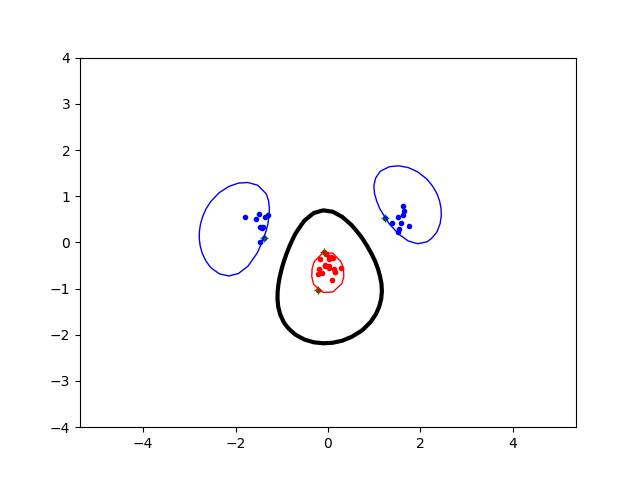
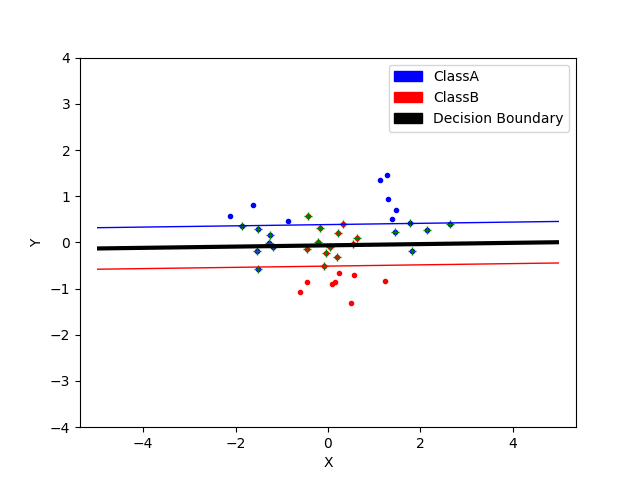
Update until q3

diff --git a/SVM/main.py b/SVM/main.py
@@ -1,8 +1,10 @@
+from pdb import line_prefix
 import numpy as np
 from scipy.optimize import minimize
 from matplotlib import pyplot as plt
 import random
 import math
+import matplotlib.patches as mpatches
 
 
 # Generate test data
@@ -11,9 +13,9 @@ import math
 #np.random.seed(100)    # to get the same random numbers
 
 classA = np.concatenate(
-    (np.random.randn(10, 2) * 0.2 + [1.5, 0.5],
-    np.random.randn(10, 2) * 0.2 + [-1.5, 0.5]))
-classB = np.random.randn(20, 2) * 0.2 + [0.0, -0.5]
+    (np.random.randn(10, 2) * 0.5 + [1.5, 0.5],
+    np.random.randn(10, 2) * 0.5 + [-1.5, 0.5]))
+classB = np.random.randn(20, 2) * 0.5 + [0.0, -0.5]
 
 inputs = np.concatenate((classA, classB))
 targets = np.concatenate((np.ones(classA.shape[0]), -np.ones(classB.shape[0])))
@@ -31,7 +33,7 @@ targets = targets[permute]
 def LinearKernel(x, y):
     return np.dot(x, y)
 
-def PolynomialKernel(x, y, p=3):    # max value for p = 10
+def PolynomialKernel(x, y, p=2):    # max value for p = 10
     '''Optional parameter p controls the degree of the polynomial'''
     return (1 + np.dot(x, y)) ** p
 
@@ -39,7 +41,7 @@ def RBFKernel(x, y, sigma=1.0):     # max value for sigma = 10
     '''Optional parameter sigma controls the width of the Gaussian'''
     return math.exp(-np.linalg.norm(x-y)**2 / (2 * (sigma ** 2)))
 
-Kernel = RBFKernel
+Kernel = LinearKernel
 
 
 # Generate P matrix
@@ -73,7 +75,7 @@ start = np.zeros(N)
 
 #B = [(0, None) for b in range(N)]  for having only lower bound
 
-C = 10000
+C = 10
 B = [(0, C) for b in range(N)]  # for having both lower and upper bounds
 
 '''Set the constraint, in this case the zerofun function. XC is given as a dictionary'''
@@ -124,5 +126,13 @@ ygrid = np.linspace(-4, 4)
 grid = np.array([[indicator(x, y) for x in xgrid] for y in ygrid])
 plt.contour(xgrid, ygrid, grid, (-1.0, 0.0, 1.0), colors=('red', 'black', 'blue'), linewidths=(1, 3, 1))
 
-plt.savefig('resources/svmplot.png')  # save a copy in a file
+blue_patch = mpatches.Patch(color='blue', label='ClassA')
+red_patch = mpatches.Patch(color='red', label='ClassB')
+black_patch = mpatches.Patch(color='black', label='Decision Boundary')
+plt.legend(handles=[blue_patch, red_patch, black_patch])
+
+plt.xlabel('X')
+plt.ylabel('Y')
+
+plt.savefig('SVM/resources/svmplot.png')  # save a copy in a file
 plt.show()
